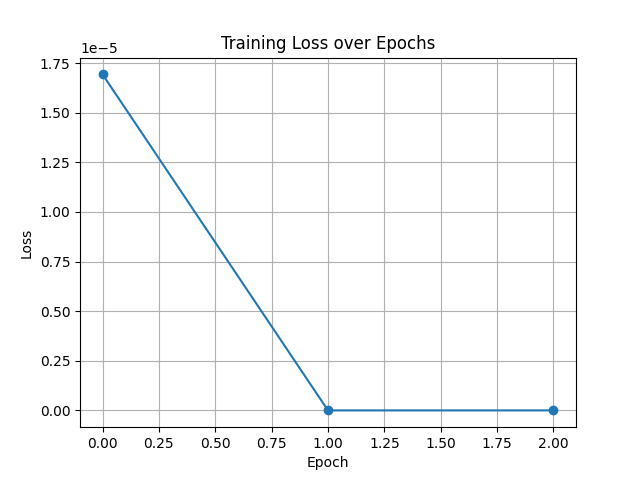
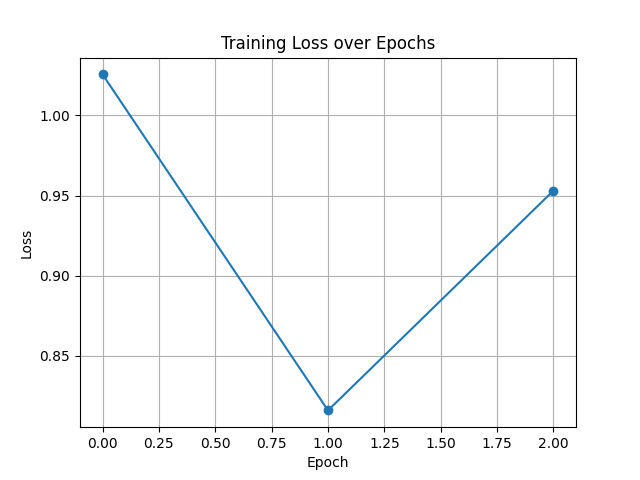
new results

diff --git a/alternate_iot_dataset/sabiha_gpt_train_without_feedback_opt.py b/alternate_iot_dataset/sabiha_gpt_train_without_feedback_opt.py
@@ -1,0 +1,194 @@
+# import os
+# os.environ["OMP_NUM_THREADS"] = "1"
+# os.environ["OPENBLAS_NUM_THREADS"] = "1"
+
+import pandas as pd
+import torch
+from torch.utils.data import Dataset, DataLoader
+from transformers import GPT2Tokenizer, GPT2ForSequenceClassification , AdamW, AutoTokenizer, AutoModelForSequenceClassification
+# from torch.optim import AdamW
+from sklearn.metrics import accuracy_score, precision_score, recall_score, f1_score, confusion_matrix, roc_auc_score, average_precision_score
+from sklearn.metrics import r2_score, precision_score, recall_score, f1_score, accuracy_score, confusion_matrix
+from tqdm import tqdm
+from sklearn.model_selection import train_test_split
+import matplotlib.pyplot as plt
+# from transformers import AutoTokenizer, AutoModelForSequenceClassification
+
+# 3. Dataset class
+class NetworkTrafficDataset(Dataset):
+    def __init__(self, texts, labels, tokenizer, max_length=512):
+        self.texts = texts
+        self.labels = labels
+        self.tokenizer = tokenizer
+        self.max_length = max_length
+
+    def __len__(self):
+        return len(self.texts)
+
+    def __getitem__(self, idx):
+        text = self.texts.iloc[idx]
+        label = self.labels.iloc[idx]
+        encoding = self.tokenizer(text, truncation=True, padding='max_length', max_length=self.max_length, return_tensors='pt')
+        item = {key: val.squeeze() for key, val in encoding.items()}
+        item['labels'] = torch.tensor(label, dtype=torch.long)
+        return item
+
+def without_feedback():
+    device = torch.device("cuda" if torch.cuda.is_available() else "cpu")
+    print("Device:", device)
+        # Directory of training and test data
+    # Load the full parquet dataset
+    data_path = '/home/sabiha/course-6604/iot_network_flow_data_benign_mirai_bruteforce_spoofing.parquet'
+    df_full = pd.read_parquet(data_path)
+    # df_full = df_full.head(10000)
+    # df_full = df_full[45000:60000]
+
+    # print(df_full.head(10))
+
+    # Label binarization: 0 = benign, 1 = attack
+    df_full['label'] = df_full['label'].apply(lambda x: 0 if x.lower().startswith('benign') else 1)
+    df_full = df_full.sample(frac=0.035, random_state=42)  # Sample 1.5% of the data
+
+    # Train-test split (80%-20%)
+    df, df_test = train_test_split(df_full, test_size=0.2, random_state=42, stratify=df_full['label'])
+
+    # Create text column from all features except label
+    df['text'] = df.drop(columns='label').astype(str).agg(', '.join, axis=1)
+    df_test['text'] = df_test.drop(columns='label').astype(str).agg(', '.join, axis=1)
+
+
+    # Quick overview
+    # Overview
+    print("Train shape:", df.shape)
+    print("Test shape:", df_test.shape)
+    print("\nTrain label distribution:\n", df['label'].value_counts(normalize=True).round(2))
+    print("\nTest label distribution:\n", df_test['label'].value_counts(normalize=True).round(2))
+
+    # Convert rows to text
+    def row_to_text(row):
+        return ', '.join([f"{col}: {row[col]}" for col in df.columns if col != 'label'])
+
+    df['text'] = df.apply(row_to_text, axis=1)
+    # Convert test rows to text
+    df_test['text'] = df_test.apply(lambda row: ', '.join([f"{col}: {row[col]}" for col in df_test.columns if col != 'label']), axis=1)
+    
+    # Train-test split
+    train_texts = df['text']
+    train_labels = df['label']
+
+    # 4. Load tokenizer and model
+    # tokenizer = GPT2Tokenizer.from_pretrained('gpt2')
+    tokenizer = AutoTokenizer.from_pretrained('facebook/opt-350m')
+    # tokenizer = GPT2Tokenizer.from_pretrained('gpt2-xl')
+    tokenizer.pad_token = tokenizer.eos_token  # GPT2 doesn't have a pad_token
+
+    # model = GPT2ForSequenceClassification.from_pretrained('gpt2', num_labels=2)
+    model = AutoModelForSequenceClassification.from_pretrained('facebook/opt-350m', num_labels=2)
+    # model = GPT2ForSequenceClassification.from_pretrained('gpt2-xl', num_labels=2)
+    model.config.pad_token_id = tokenizer.pad_token_id
+
+    # 5. DataLoaders
+    train_dataset = NetworkTrafficDataset(train_texts, train_labels, tokenizer)
+    # val_dataset = NetworkTrafficDataset(val_texts, val_labels, tokenizer)
+
+    train_loader = DataLoader(train_dataset, batch_size=4, shuffle=True)
+    # val_loader = DataLoader(val_dataset, batch_size=4)
+
+    # 3. Prepare test DataLoader
+    test_dataset = NetworkTrafficDataset(df_test['text'], df_test['label'], tokenizer)
+    test_loader = DataLoader(test_dataset, batch_size=4)
+
+    optimizer = AdamW(model.parameters(), lr=5e-5)
+    scaler = torch.amp.GradScaler()  # AMP scaler
+    losses = []
+
+    # 6. Training Loop
+    device = torch.device('cuda' if torch.cuda.is_available() else 'cpu')
+    model = model.to(device)
+    optimizer = AdamW(model.parameters(), lr=5e-5)
+
+    # epoch = 10
+    epochs =3
+    for epoch in range(epochs):
+        model.train()
+        train_preds, train_true = [], []
+        for batch in train_loader:
+            batch = {key: val.to(device) for key, val in batch.items()}
+            outputs = model(**batch)
+            loss = outputs.loss
+            loss.backward()
+            optimizer.step()
+            optimizer.zero_grad()
+
+            # Collect predictions for training accuracy
+            logits = outputs.logits
+            preds = torch.argmax(logits, dim=-1)
+            train_preds.extend(preds.cpu().numpy())
+            train_true.extend(batch['labels'].cpu().numpy())
+
+        # Training metrics
+        train_acc = accuracy_score(train_true, train_preds)
+        print(f"\nEpoch {epoch+1}: Train Accuracy = {train_acc:.4f} Loss = {loss.item():.4f}")
+        losses.append(loss.item())
+    # Save checkpoint
+    torch.save(model.state_dict(), f"model_checkpoint_epoch_{epochs+1}.pt")
+
+    plt.plot(losses, marker='o')
+    plt.title("Training Loss over Epochs")
+    plt.xlabel("Epoch")
+    plt.ylabel("Loss")
+    plt.grid(True)
+    plt.savefig(f"training_loss for {epochs} Epochs.png")
+    plt.show()
+
+    # model.eval()
+    # test_preds, test_labels, prob_scores = [], [], []
+
+    # with torch.no_grad():
+    #     for batch in test_loader:
+    #         batch = {k: v.to(device) for k, v in batch.items()}
+    #         outputs = model(**batch)
+    #         logits = outputs.logits
+    #         probs = torch.nn.functional.softmax(logits, dim=-1)
+    #         preds = torch.argmax(logits, dim=-1)
+    #         test_preds.extend(preds.cpu().numpy())
+    #         test_labels.extend(batch['labels'].cpu().numpy())
+    #         prob_scores.extend(probs[:, 1].cpu().numpy())  # Probability of class 1 (Anomaly)
+
+    # Compute metrics
+    model.eval()
+    test_preds, test_labels_list = [], []
+    with torch.no_grad():
+        for batch in test_loader:
+            batch = {key: val.to(device) for key, val in batch.items()}
+            outputs = model(**batch)
+            logits = outputs.logits
+            preds = torch.argmax(logits, dim=-1)
+            test_preds.extend(preds.cpu().numpy())
+            test_labels_list.extend(batch['labels'].cpu().numpy())
+
+    # 8. Metrics
+    r2 = r2_score(test_labels_list, test_preds)
+    acc = accuracy_score(test_labels_list, test_preds)
+    f1 = f1_score(test_labels_list, test_preds)
+    recall = recall_score(test_labels_list, test_preds)
+    precision_anomaly = precision_score(test_labels_list, test_preds, pos_label=1)
+    precision_benign = precision_score(test_labels_list, test_preds, pos_label=0)
+    tn, fp, fn, tp = confusion_matrix(test_labels_list, test_preds).ravel()
+    fpr = fp / (fp + tn)
+
+    # 9. Results
+    print("\n--- Test Set Results ---")
+    print(f"Accuracy           : {acc:.4f}")
+    print(f"Test R² Score      : {r2:.4f}")
+    print(f"Precision (Benign) : {precision_benign:.4f}")
+    print(f"Precision (Anomaly): {precision_anomaly:.4f}")
+    print(f"Recall             : {recall:.4f}")
+    print(f"F1 Score           : {f1:.4f}")
+    print(f"FPR (False Positive Rate): {fpr:.6f}")
+
+
+
+if __name__ == "__main__":
+    without_feedback()
+
